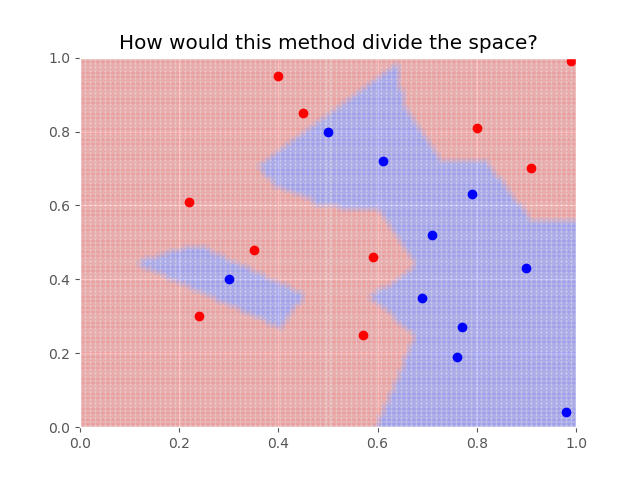
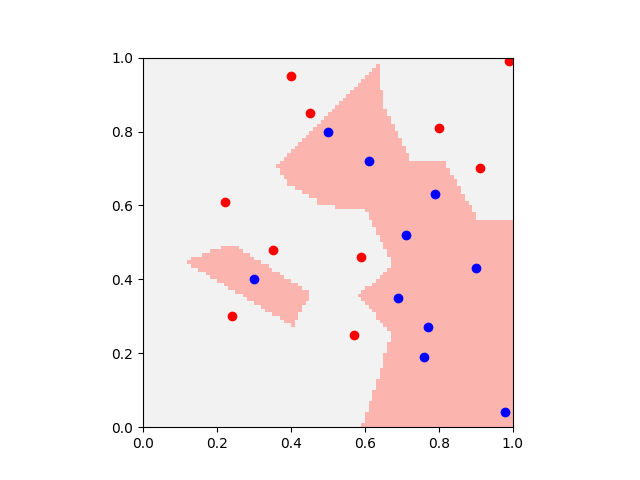
Adapt kNN to use imshow

diff --git a/kNN/kNN_classifier.py b/kNN/kNN_classifier.py
@@ -1,7 +1,8 @@
 import numpy as np
+np.random.seed(0)
 import matplotlib.pyplot as plt
 from scipy import stats
-plt.style.use('ggplot')
+plt.style.use('fast')
 
 #############
 # Figure 1
@@ -16,15 +17,13 @@ for i, val in enumerate(label):
         axes.plot(x_coord[i], y_coord[i], 'ro')
     else:
         axes.plot(x_coord[i], y_coord[i], 'bo')
-axes.set(xlim=(0, 1), ylim=(0, 1))
-plt.title('Consider two classes, blue and red.')
+axes.set(xlim=(0, 1), ylim=(0, 1), aspect=1)
 plt.savefig('img/fig1')
 
 #############
 # Figure 2
 #############
 axes.plot(0.5, 0.6, 'gx')
-plt.title('Which class does the green cross belong to?')
 plt.savefig('img/fig2')
 
 
@@ -36,31 +35,29 @@ axes.annotate('', xy=(0.5,0.6), xytext=(0.61,0.72), arrowprops=dict(arrowstyle='
 axes.annotate('', xy=(0.5,0.6), xytext=(0.59,0.46), arrowprops=dict(arrowstyle='<->', color='black'), va='center')
 axes.annotate('', xy=(0.5,0.6), xytext=(0.45,0.85), arrowprops=dict(arrowstyle='<->', color='black'), va='center')
 axes.annotate('', xy=(0.5,0.6), xytext=(0.35,0.48), arrowprops=dict(arrowstyle='<->', color='black'), va='center')
-plt.title('Well whats its nearest neighbour?')
 plt.savefig('img/fig3')
 
 #############
 # Figure 4
 #############
 fig, axes = plt.subplots(ncols=1, nrows=1)
+D = np.zeros([100, 100])
 # Run through the space
-for x in np.linspace(0, 1, 100):
-    for y in np.linspace(0, 1, 100):
+for i, x in enumerate(np.linspace(0, 1, 100)):
+    for j, y in enumerate(np.linspace(1, 0, 100)):
         allocated_class = None
         min_dist = np.inf
         # Run through the training set
-        for i in range(len(x_coord)):
+        for k in range(len(x_coord)):
             # Compute squared Euclidean distance (remove sqrt to save flops)
-            d = (x - x_coord[i])**2 + (y - y_coord[i])**2
+            d = (x - x_coord[k])**2 + (y - y_coord[k])**2
             # Check is this is closest seen so far
             if d < min_dist:
                 min_dist = d
-                allocated_class = label[i]
+                allocated_class = label[k]
         # Plot
         if allocated_class == 1:
-            axes.plot(x, y, 'ro', fillstyle='full', alpha=0.05)
-        else:
-            axes.plot(x, y, 'bo', fillstyle='full', alpha=0.05)
+            D[j, i] = 1
 
 for i, val in enumerate(label):
     if val == 1:
@@ -68,34 +65,33 @@ for i, val in enumerate(label):
     else:
         axes.plot(x_coord[i], y_coord[i], 'bo')
 
-axes.set(xlim=(0, 1), ylim=(0, 1))
-plt.title('How would this method divide the space?')
+axes.imshow(D, extent = [0, 1, 0, 1], cmap=plt.get_cmap('Pastel1'), aspect = 1)
 plt.savefig('img/fig4')
 
 #############
 # Figure 5
 #############
 axes.plot([0.2, 0.4, 0.4, 0.2, 0.2], [0.3, 0.3, 0.5, 0.5, 0.3], 'g')
-plt.title('Is this an anomaly? Maybe consider more neighbours?')
 plt.savefig('img/fig5')
 
 #############
 # Figure 6
 #############
 fig, axes = plt.subplots(ncols=1, nrows=1)
+D = np.zeros([100, 100])
 # Run through the space
-for x in np.linspace(0, 1, 100):
-    for y in np.linspace(0, 1, 100):
+for i, x in enumerate(np.linspace(0, 1, 100)):
+    for j, y in enumerate(np.linspace(1, 0, 100)):
         allocated_class = np.array([None, None, None])
         min_dist = np.array([np.inf, np.inf, np.inf])
         # Run through the training set
-        for i in range(len(x_coord)):
+        for k in range(len(x_coord)):
             # Compute squared Euclidean distance (remove sqrt to save flops)
-            d = (x - x_coord[i])**2 + (y - y_coord[i])**2
+            d = (x - x_coord[k])**2 + (y - y_coord[k])**2
             # Check is this is closest seen so far
             if d < min_dist[2]:
                 min_dist[2] = d
-                allocated_class[2] = label[i]
+                allocated_class[2] = label[k]
 
                 # Sort in descending order
                 index = np.argsort(min_dist)
@@ -105,36 +101,34 @@ for x in np.linspace(0, 1, 100):
         # Plot
         list_mode = stats.mode(allocated_class.tolist())
         if list_mode[0] == [1]:
-            axes.plot(x, y, 'ro', fillstyle='full', alpha=0.05)
-        else:
-            axes.plot(x, y, 'bo', fillstyle='full', alpha=0.05)
+            D[j, i] = 1
 
 for i, val in enumerate(label):
     if val == 1:
         axes.plot(x_coord[i], y_coord[i], 'ro')
     else:
         axes.plot(x_coord[i], y_coord[i], 'bo')
-axes.set(xlim=(0, 1), ylim=(0, 1))
-plt.title('What if we take average of closest 3 neighbours?')
+axes.imshow(D, extent = [0, 1, 0, 1], cmap=plt.get_cmap('Pastel1'), aspect = 1)
 plt.savefig('img/fig6')
 
 #############
 # Figure 7
 #############
 fig, axes = plt.subplots(ncols=1, nrows=1)
+D = np.zeros([100, 100])
 # Run through the space
-for x in np.linspace(0, 1, 100):
-    for y in np.linspace(0, 1, 100):
+for i, x in enumerate(np.linspace(0, 1, 100)):
+    for j, y in enumerate(np.linspace(1, 0, 100)):
         allocated_class = np.array([None, None, None, None, None])
         min_dist = np.array([np.inf, np.inf, np.inf, np.inf, np.inf])
         # Run through the training set
-        for i in range(len(x_coord)):
+        for k in range(len(x_coord)):
             # Compute squared Euclidean distance (remove sqrt to save flops)
-            d = (x - x_coord[i])**2 + (y - y_coord[i])**2
+            d = (x - x_coord[k])**2 + (y - y_coord[k])**2
             # Check is this is closest seen so far
             if d < min_dist[4]:
                 min_dist[4] = d
-                allocated_class[4] = label[i]
+                allocated_class[4] = label[k]
 
                 # Sort in descending order
                 index = np.argsort(min_dist)
@@ -144,15 +138,54 @@ for x in np.linspace(0, 1, 100):
         # Plot
         list_mode = stats.mode(allocated_class.tolist())
         if list_mode[0] == [1]:
-            axes.plot(x, y, 'ro', fillstyle='full', alpha=0.05)
-        else:
-            axes.plot(x, y, 'bo', fillstyle='full', alpha=0.05)
+            D[j, i] = 1
 
 for i, val in enumerate(label):
     if val == 1:
         axes.plot(x_coord[i], y_coord[i], 'ro')
     else:
         axes.plot(x_coord[i], y_coord[i], 'bo')
-axes.set(xlim=(0, 1), ylim=(0, 1))
-plt.title('Or 5? Too many can be bad!')
+axes.imshow(D, extent = [0, 1, 0, 1], cmap=plt.get_cmap('Pastel1'), aspect = 1)
 plt.savefig('img/fig7')
+
+#############
+# Figure 8
+#############
+x_coord = [0.90, 0.30, 0.71, 0.79, 0.50, 0.69, 0.61, 0.98, 0.76, 0.77, 0.22, 0.45, 0.57, 0.59, 0.80, 0.91, 0.99, 0.24, 0.4, 0.35]
+y_coord = [0.43, 0.40, 0.52, 0.63, 0.80, 0.35, 0.72, 0.04, 0.19, 0.27, 0.61, 0.85, 0.25, 0.46, 0.81, 0.70, 0.99, 0.30, 0.95, 0.48]
+label = [0, 0, 0, 0, 0, 0, 0, 0, 0, 0, 1, 1, 1, 1, 1, 1, 1, 1, 1, 1]
+class_1 = []
+class_2 = []
+fig, axes = plt.subplots(ncols=1, nrows=1)
+for i, val in enumerate(label):
+    for _ in range(5):
+        x = x_coord[i]+0.05*np.random.randn(1)
+        y = y_coord[i]+0.05*np.random.randn(1)
+        if val == 1:
+            class_1.append([x, y])
+            axes.plot(x, y, 'ro')
+        else:
+            class_2.append([x, y])
+            axes.plot(x, y, 'bo')
+axes.set(xlim=(0, 1), ylim=(0, 1), aspect=1)
+plt.savefig('img/fig8')
+
+#############
+# Figure 9
+#############
+axes.plot(0.5, 0.6, 'gx')
+plt.savefig('img/fig9')
+
+#############
+# Figure 10
+#############
+for [x,y] in class_1+class_2:
+    if 0<x<1 and 0<y<1:
+        axes.annotate('', xy=(0.5,0.6), xytext=(x,y), arrowprops=dict(arrowstyle='<->', color='black'), va='center')
+plt.savefig('img/fig10')
+
+#############
+# Figure 11
+#############
+axes.plot([0, 0.2, 0.2, 0, 0], [0.7, 0.7, 1, 1, 0.7], 'g')
+plt.savefig('img/fig11')

diff --git a/kNN/README.md b/kNN/README.md
@@ -1,8 +1,24 @@
 # k Nearest Neighbours
+
+### Consider two classes, blue and red:
 ![](./img/fig1.png)
+### Well which class does the green cross belong to?
 ![](./img/fig2.png)
+### We could look at its nearest neighbour:
 ![](./img/fig3.png)
+### Using this strategy divides the space into two regions:
 ![](./img/fig4.png)
+### Outliers can damage the regions:
 ![](./img/fig5.png)
+### We can remove them by considering more neighbour:
 ![](./img/fig6.png)
+### But considering too many neighbours is also bad:
 ![](./img/fig7.png)
+### The complexity of the algorithm increases as we add more datapoints:
+![](./img/fig8.png)
+### Which class does the green cross belong to?
+![](./img/fig9.png)
+### Well we first must compute all these distances:
+![](./img/fig10.png)
+### And large regions of the space may have no nearby neighbours!
+![](./img/fig11.png)
